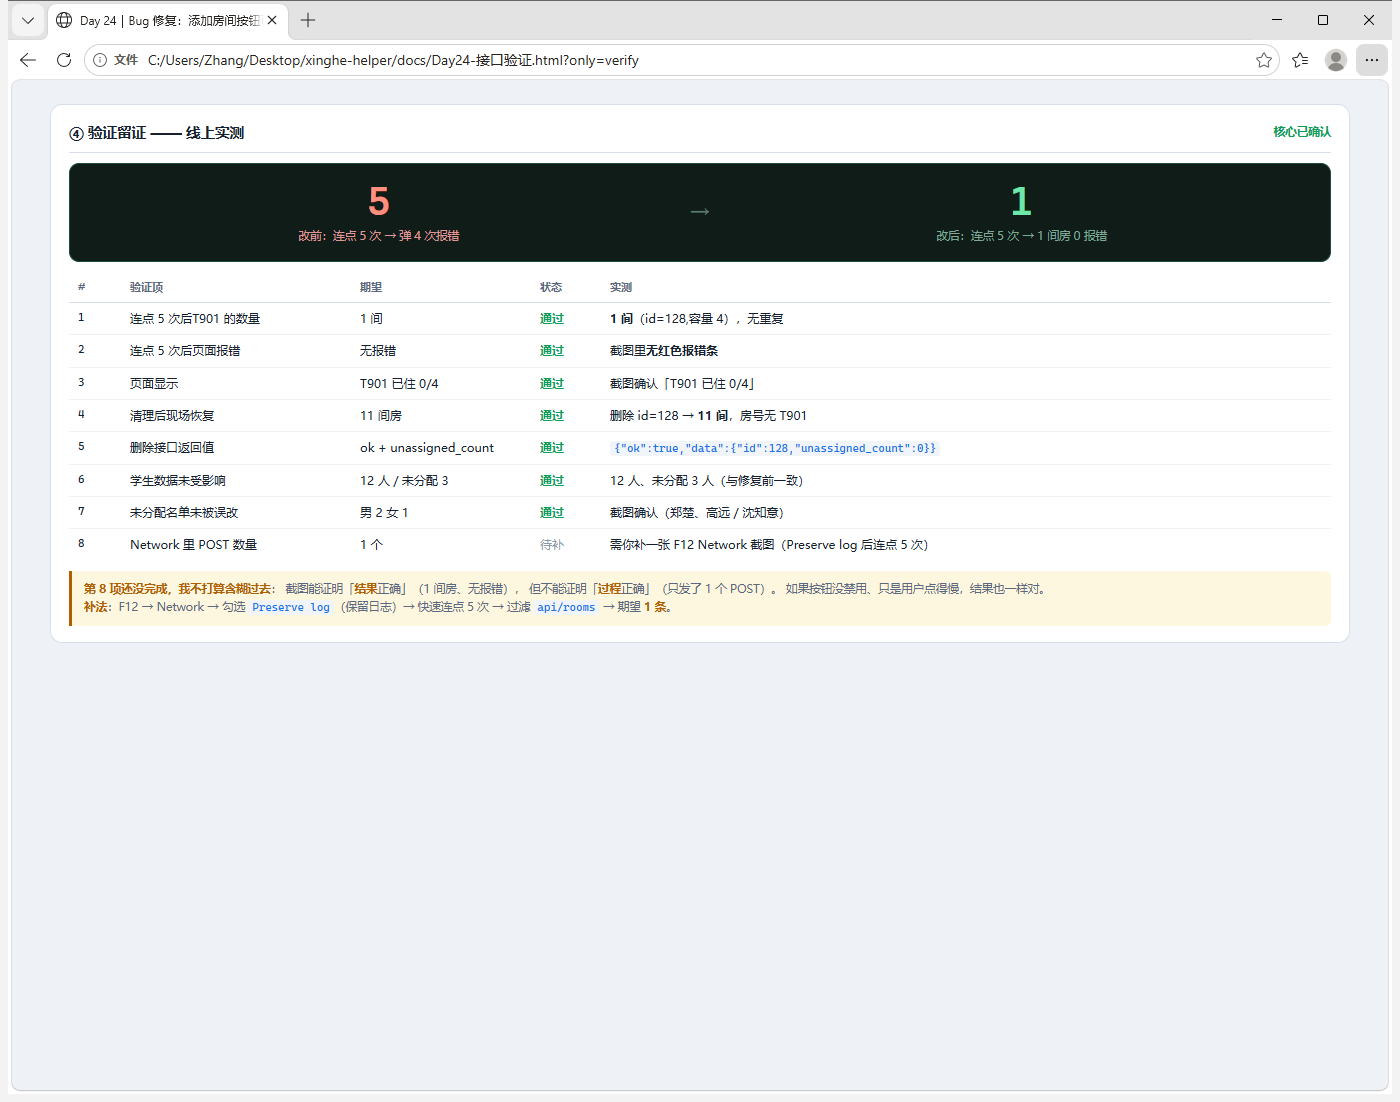
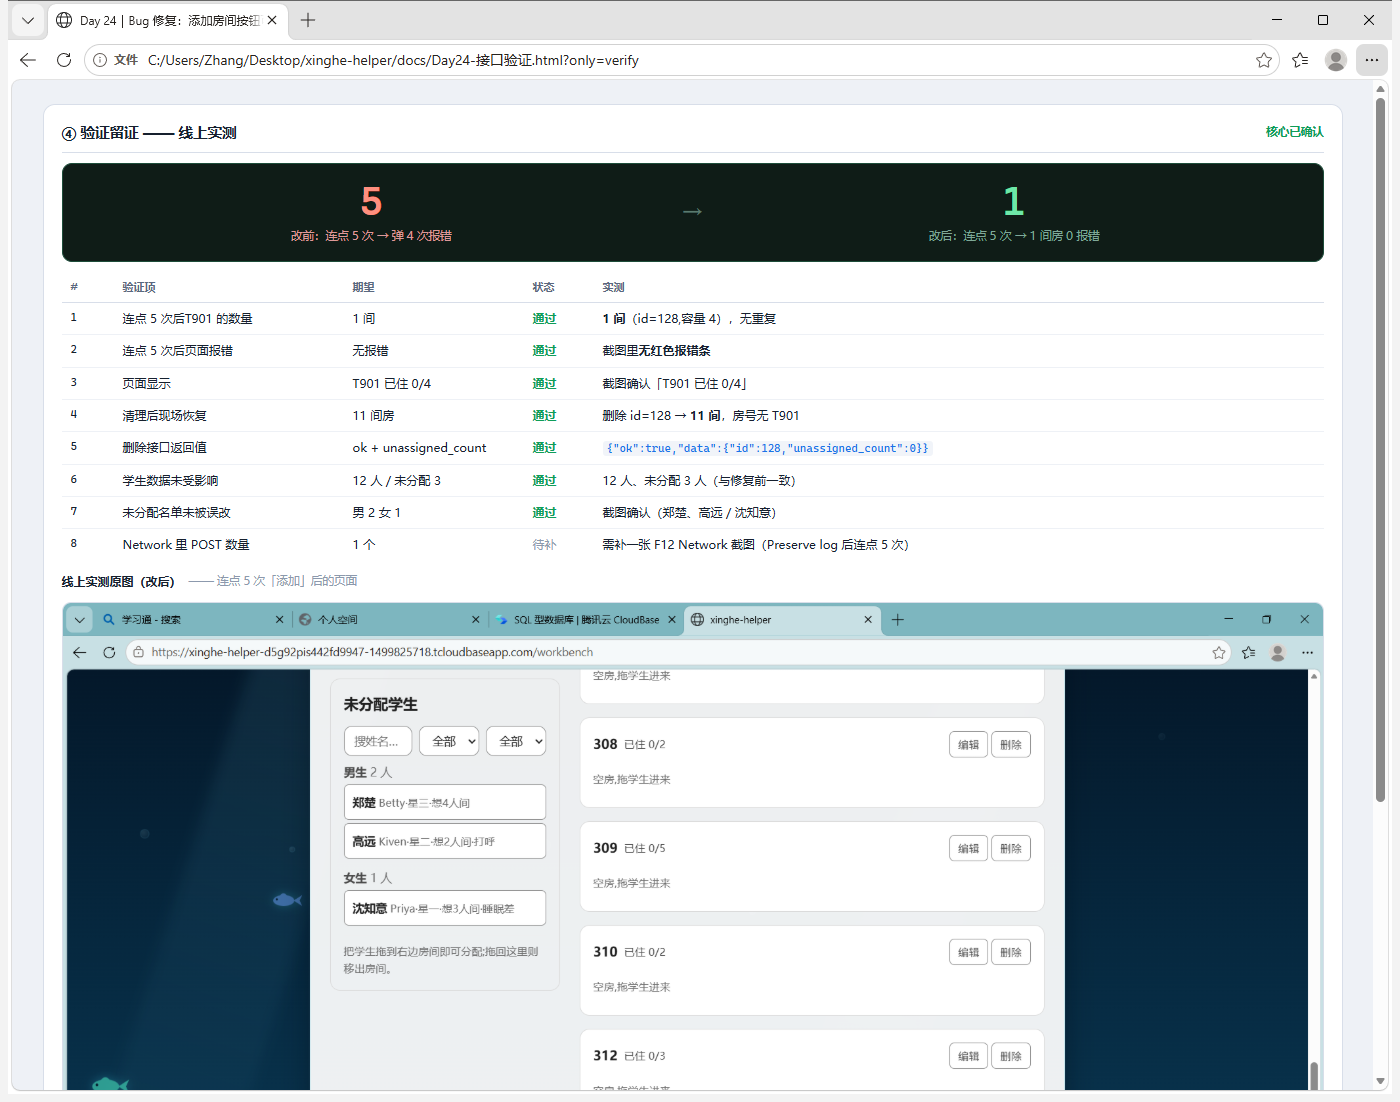
Day 24｜验证页补上线上实测原图，并纠正文件换行符为 LF
把用户实测截图（T901 连点 5 次仅 1 间房）嵌入验证页第 ④ 节。

diff --git a/docs/Day24-接口验证.html b/docs/Day24-接口验证.html
@@ -69,6 +69,12 @@
   td.m{font-family:"Cascadia Mono",Consolas,monospace;font-size:10.5px}
   .c-ok{color:var(--ok);font-weight:600} .c-err{color:var(--err);font-weight:600}
   .c-no{color:var(--ink3)}
+  /* 线上实测截图：直接嵌图，不用文字复述 */
+  .shot{margin:11px 0 5px;border:1px solid var(--line);border-radius:9px;overflow:hidden}
+  .shot img{display:block;width:100%}
+  .shot-cap{font-size:11px;color:var(--ink3);padding:7px 11px;background:#fbfcfe;
+    border-top:1px solid var(--line)}
+  .shot-cap b{color:var(--ink)}
   .note{background:#f6f9ff;border-left:3px solid var(--acc);padding:9px 12px;
     border-radius:0 6px 6px 0;font-size:11.5px;color:var(--ink2);margin-top:11px}
   .note b{color:var(--ink)}
@@ -299,9 +305,20 @@
         <tr><td class="m">7</td><td>未分配名单未被误改</td><td>男 2 女 1</td>
           <td class="c-ok">通过</td><td>截图确认（郑楚、高远 / 沈知意）</td></tr>
         <tr><td class="m">8</td><td>Network 里 POST 数量</td><td>1 个</td>
-          <td class="c-no">待补</td><td>需你补一张 F12 Network 截图（Preserve log 后连点 5 次）</td></tr>
+          <td class="c-no">待补</td><td>需补一张 F12 Network 截图（Preserve log 后连点 5 次）</td></tr>
       </tbody>
     </table>
+
+    <div class="lab"><b>线上实测原图（改后）</b> —— 连点 5 次「添加」后的页面</div>
+    <div class="shot">
+      <img src="screenshots/Day24-连点5次后仅1间房.png"
+           alt="改后线上实测：连点 5 次添加，页面只出现一间 T901 房，无报错" />
+      <div class="shot-cap">
+        <b>改后实测</b>：快速连点「添加」5 次 → 页面出现 <b>T901 已住 0/4</b>，
+        房间数 11 → 12，<b>无任何红色报错条</b>；未分配名单仍为男 2 女 1（未被误改）。
+        数据库核对：<code>where room_no='T901'</code> 只有 <b>1 行</b>（id=128）。
+      </div>
+    </div>
 
     <div class="note warn"><b>第 8 项还没完成，我不打算含糊过去</b>：
       截图能证明「<b>结果</b>正确」（1 间房、无报错），
